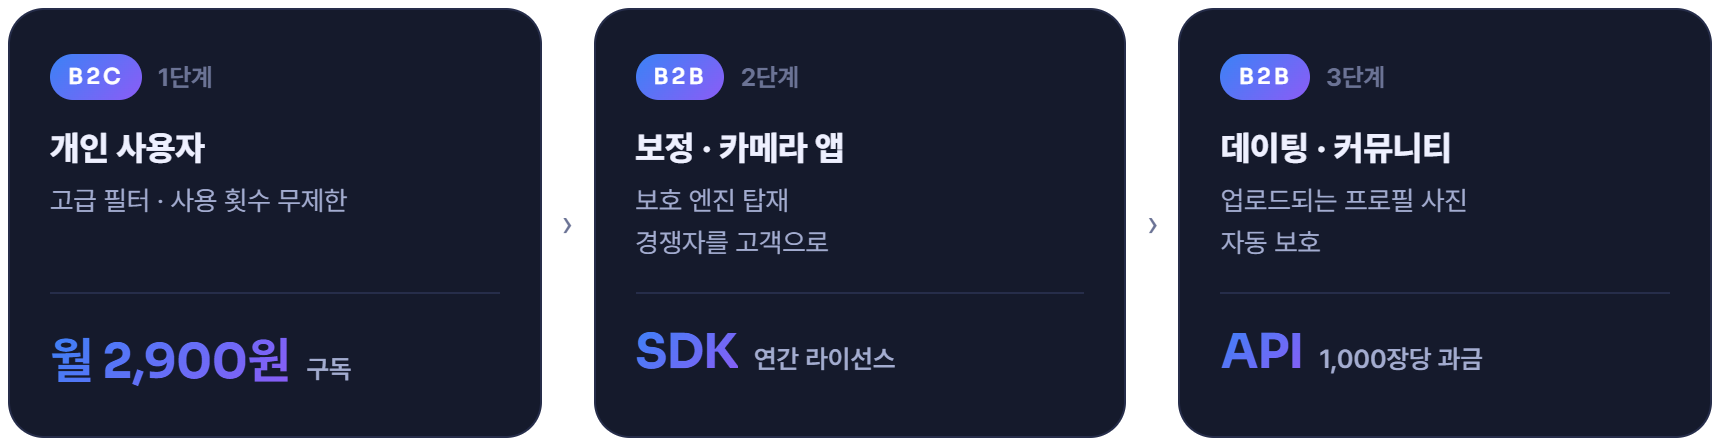
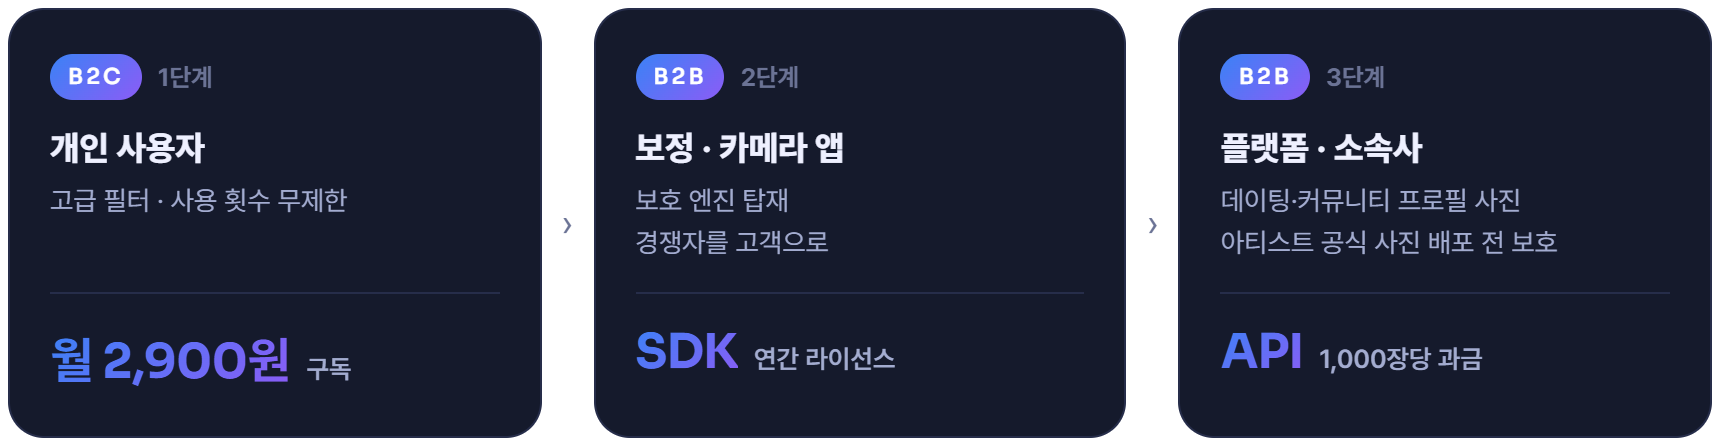
팀 소개를 명함으로 바꾸고 B2B에 소속사 추가
- 팀 소개 표의 이모티콘을 빼고 실제 명함 이미지로 교체
- 비즈니스 모델 3단계 고객에 소속사(아티스트 공식 사진 배포 전 보호) 추가
- 시장 경쟁력에 소속사 사전 대응 수요와 출처 추가

Changed region(s): [[0.7087, 0.4081, 0.8936, 0.4955], [0.7087, 0.2915, 0.8628, 0.3789], [0.7087, 0.5247, 0.9244, 0.583]]

diff --git a/README.md b/README.md
@@ -196,7 +196,7 @@ flowchart LR
 
 <picture>
   <source media="(prefers-color-scheme: dark)" srcset="assets/business-dark.png" />
-  <img src="assets/business-light.png" width="860" alt="1단계 B2C 월 2,900원 구독, 2단계 B2B 보정·카메라 앱 SDK 연간 라이선스, 3단계 B2B 데이팅·커뮤니티 API 1,000장당 과금" />
+  <img src="assets/business-light.png" width="860" alt="1단계 B2C 월 2,900원 구독, 2단계 B2B 보정·카메라 앱 SDK 연간 라이선스, 3단계 B2B 플랫폼·소속사 API 1,000장당 과금" />
 </picture>
 
 **왜 B2C부터?** 실제 사용자가 쓰는 기술이라는 증거가 B2B 영업의 근거가 되고, 다양한 사진·필터 조합으로 모델을 고도화할 수 있으며, "우리 학교도 해주세요" 같은 기관 수요로 이어집니다.
@@ -206,6 +206,7 @@ flowchart LR
 - **핵심 사용층이 곧 피해층** — 딥페이크 피해자의 92.6%가 10·20대이고, 이들은 보정 앱의 핵심 사용층입니다.
 - **보정은 이미 일상** — 10~17세 여학생의 77%가 사진을 올리기 전 외모를 바꾸거나 가린다고 답했습니다 (Dove Self-Esteem Project, 2021).
 - **성장하는 인접 시장** — 딥페이크 탐지 시장은 2023년 2.1억 달러에서 2031년 34.6억 달러로 연 41.7% 성장이 예상됩니다 (The Insight Partners).
+- **소속사의 사전 대응 수요** — 2024년 8월 JYP(트와이스) 등 여러 소속사가 아티스트 딥페이크에 법적 대응을 발표했습니다. 지금은 퍼진 뒤의 사후 대응뿐이라, 공식 사진을 배포하기 전에 보호하는 API에 대한 수요가 있습니다.
 - **자연 확산** — 보호된 사진에 선택형 '보호됨' 스탬프를 달아, 본 사람이 앱으로 유입되도록 합니다.
 
 <br/>
@@ -242,10 +243,12 @@ flowchart LR
 > 파이썬의 `__init__`은 무언가가 처음 만들어질 때 가장 먼저 실행되어 기본값을 정합니다.<br/>
 > 저희는 안전이 처음부터 기본값인 세상을 만듭니다. **Safe by default.**
 
-| | 이름 | 역할 |
-|:---:|:---|:---|
-| 🧭 | **김혜현** HyeHyeon Kim | PM · CM · QA |
-| 🛠 | **정가영** GaYeong Jeong | PL · ENG · QA |
+<picture>
+  <source media="(prefers-color-scheme: dark)" srcset="assets/team-dark.png" />
+  <img src="assets/team-light.png" width="860" alt="김혜현 HyeHyeon Kim, PM · CM · QA / 정가영 GaYeong Jeong, PL · ENG · QA" />
+</picture>
+
+<p align="center"><b>김혜현</b> HyeHyeon Kim &nbsp;·&nbsp; <b>정가영</b> GaYeong Jeong</p>
 
 <br/>
 
@@ -254,6 +257,7 @@ flowchart LR
 - ARY News (Reuters 기사), [Taylor Swift searches blocked on X after fake explicit images spread](https://arynews.tv/taylor-swift-searches-blocked-on-x-after-explicit-images-spread) (2024.1, 조회 수는 New York Times 보도 인용) · Bloomberg Law, [Taylor Swift Search Restored on X After Deepfake Porn Deluge](https://news.bloomberglaw.com/ip-law/taylor-swift-search-restored-on-x-after-deepfake-porn-deluge)
 - MBC, ["우리 학교도 능욕당했다" 중고교 150개 명단 '발칵'](https://imnews.imbc.com/news/2024/society/article/6630519_36438.html) (2024.8.26, 명단 속 피해 사실은 보도 시점 기준 수사로 확인되지 않음)
 - 뉴스타파, [딥페이크의 공범들② 학교 딥페이크, 가해자가 돌아왔다](https://newstapa.org/article/74aqg) (2025.3.27, 교육부·경찰청 집계 인용)
+- 서울신문, ['딥페이크' 트와이스도 당했다…JYP "불법 행위, 강력 대응"](https://www.seoul.co.kr/news/society/2024/08/31/20240831500007) (2024.8.31)
 - 여성가족부 · 한국여성인권진흥원, [2024 디지털성범죄 피해자 지원 보고서](https://www.khan.co.kr/article/202504102017005) 관련 보도 (2025.4)
 - 성평등가족부, [지난해 디지털성범죄 피해자 1만 637명에게 35만여 건 원스톱 지원](https://www.mogef.go.kr/nw/enw/nw_enw_s001d.do?mid=mda700&bbtSn=713441) (2026.4), [관련 보도](https://m.sedaily.com/amparticle/20033388)
 - 뉴시스, ['딥페이크 성범죄' 1438명 검거…피의자 62%가 10대](https://www.newsis.com/view/NISX20251114_0003403877) (2025.11)
